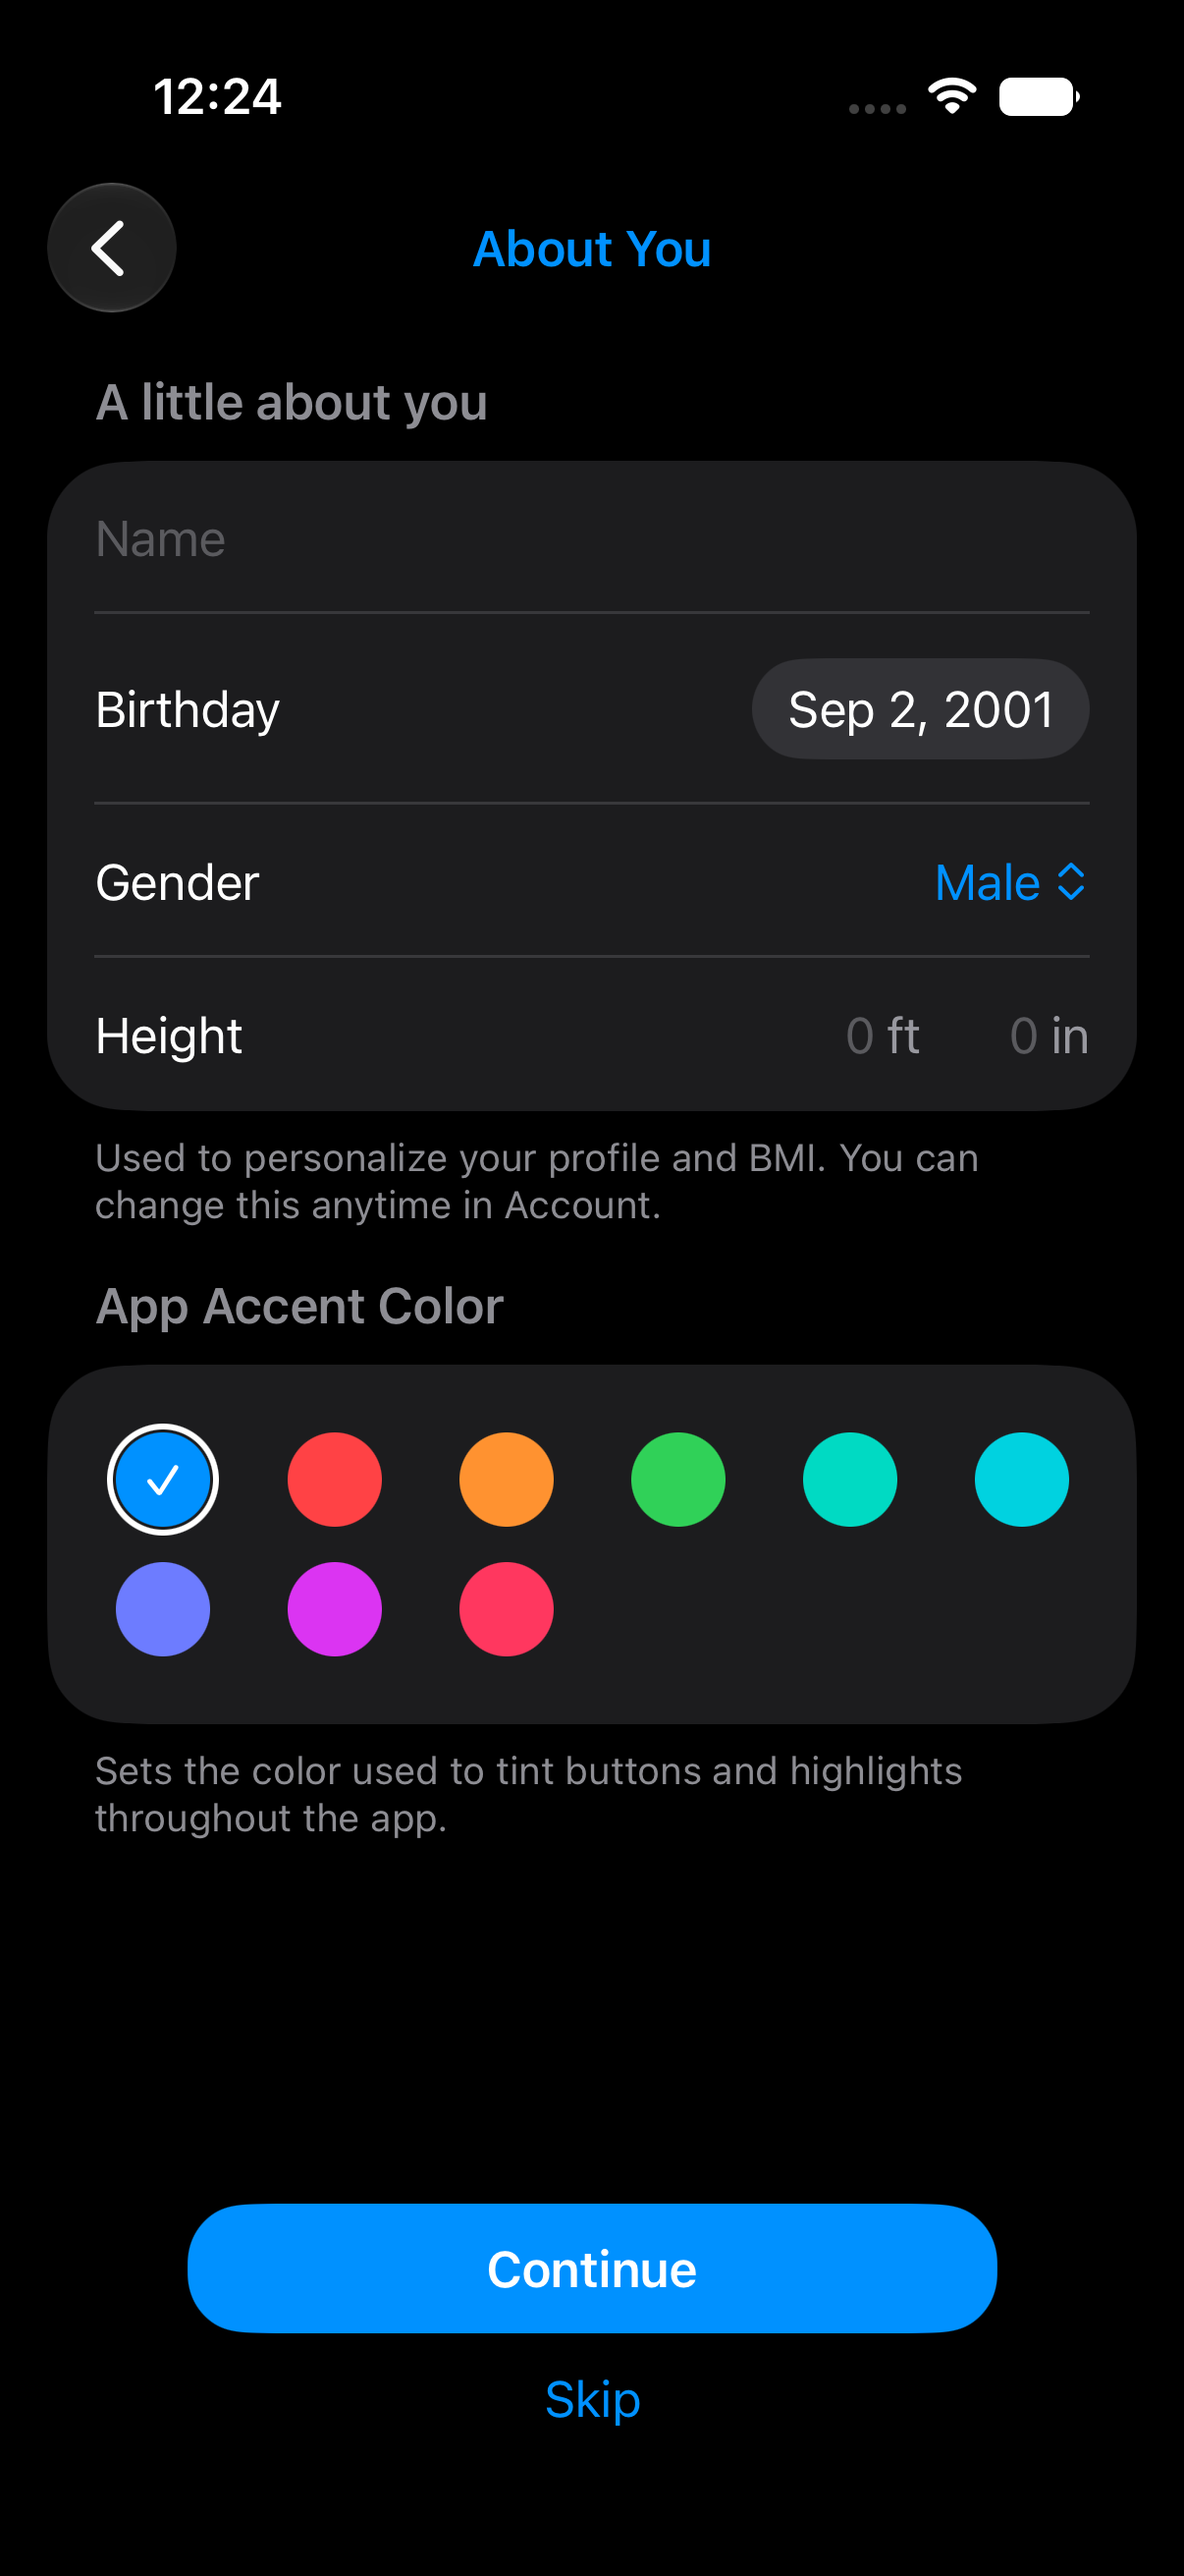
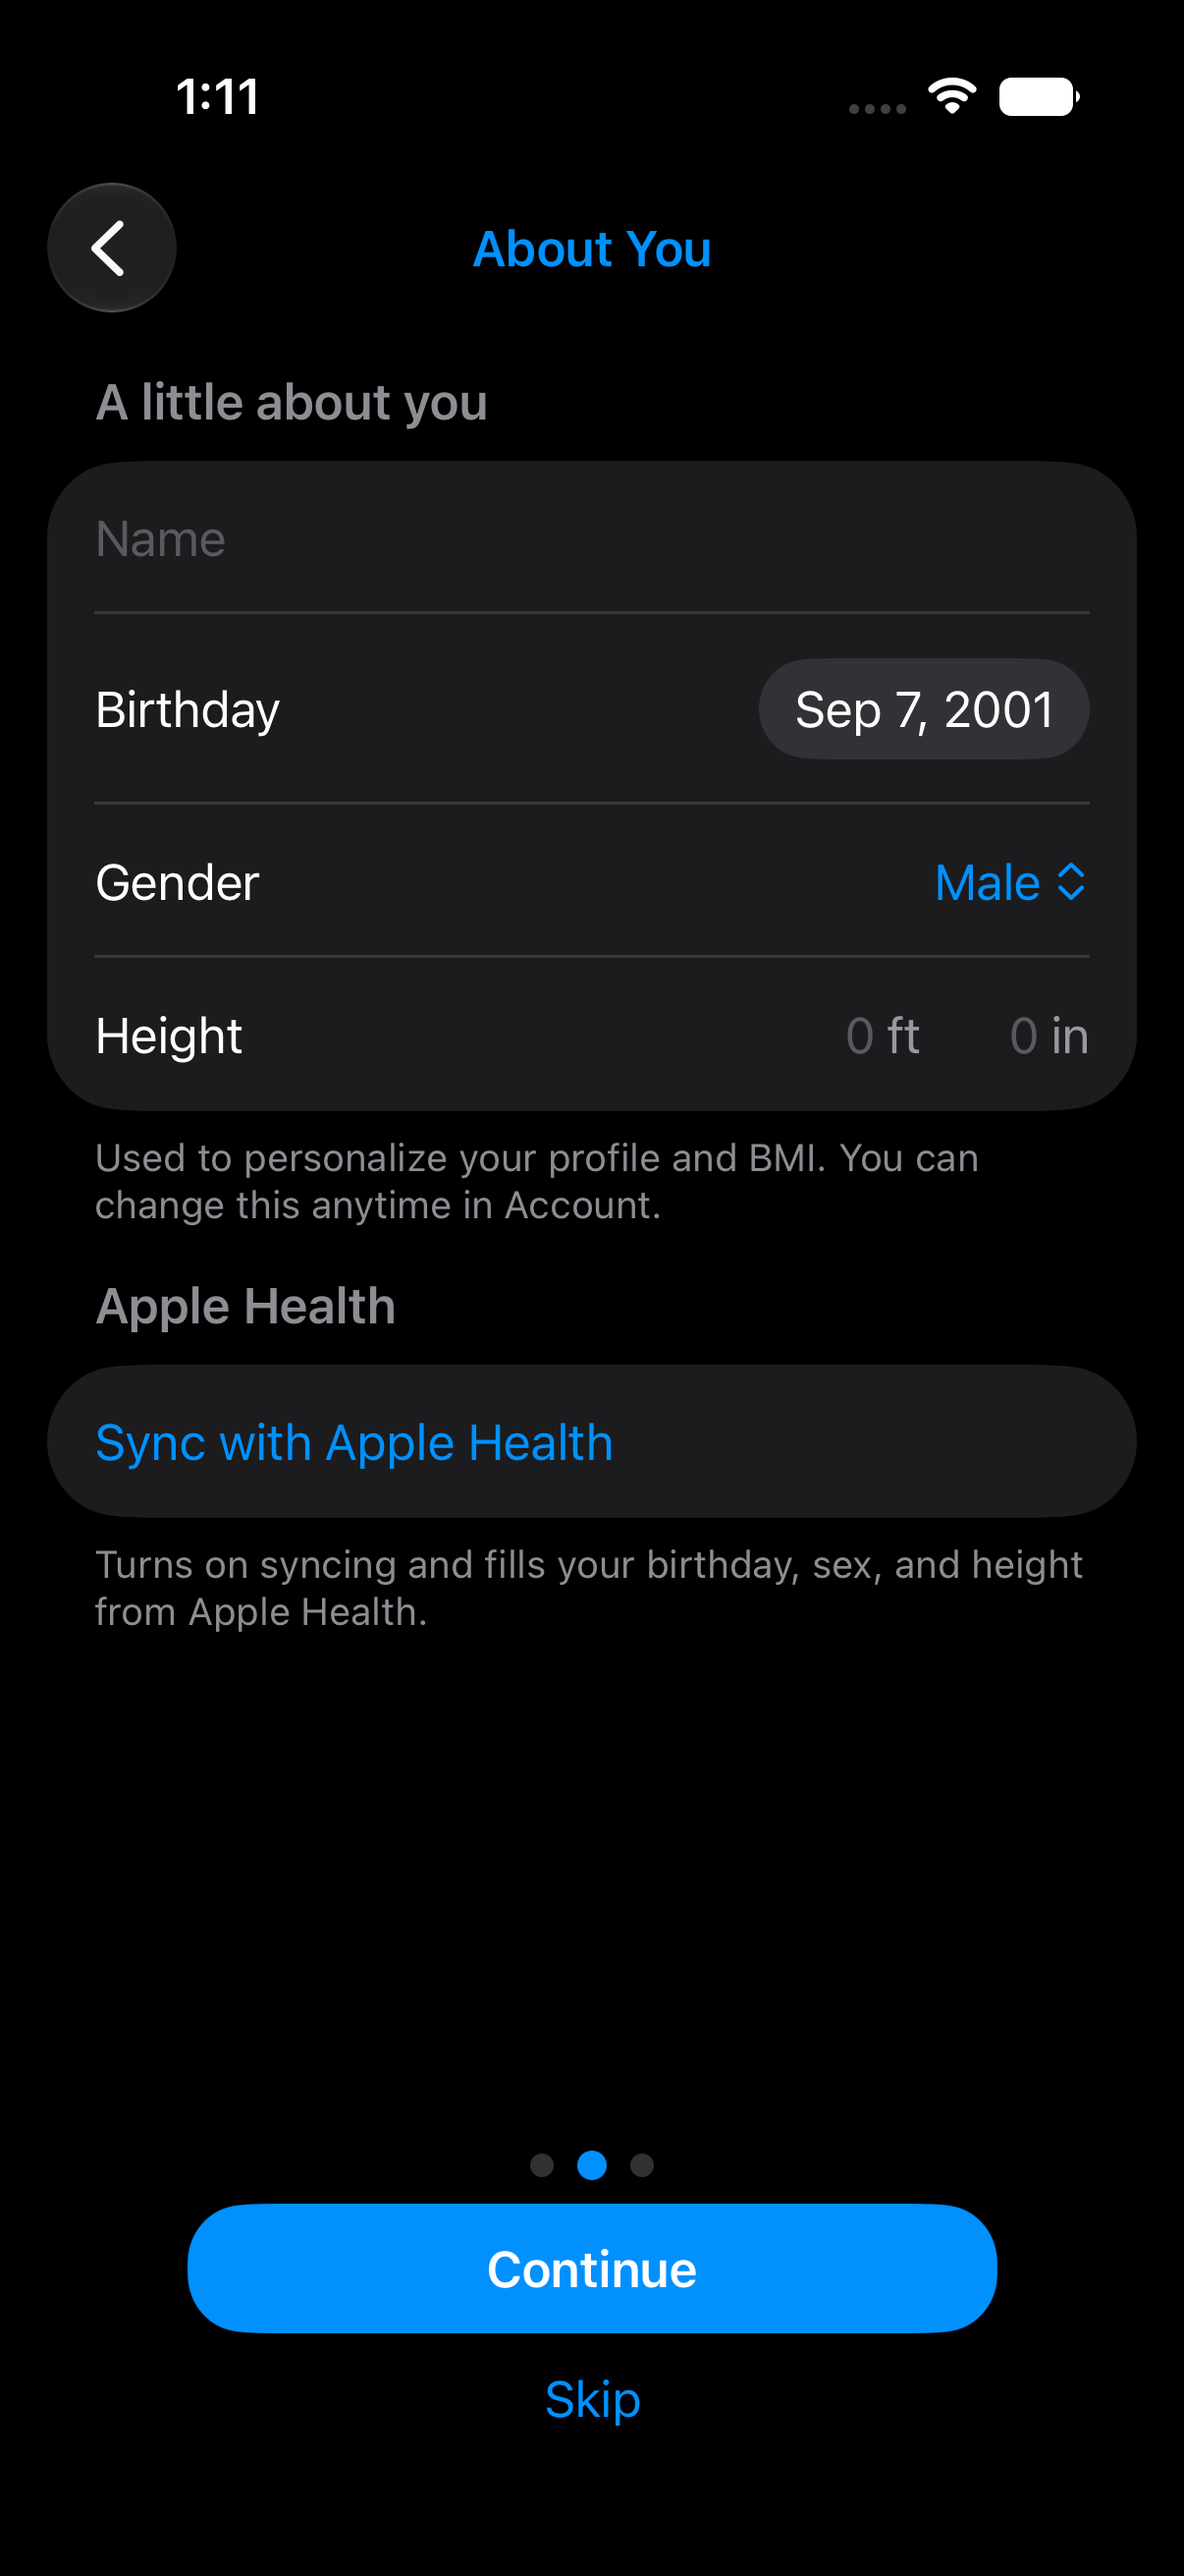
Update README + screenshots for Health, Settings categories, goals
- Document Apple Health integration, categorized Settings, storage/reset,
  goal view→edit, and onboarding Health import
- Add HealthKitService to the structure; note HealthKit is opt-in
- Refresh settings/onboarding/weight screenshots and add a Health screenshot

diff --git a/README.md b/README.md
@@ -32,12 +32,18 @@ not a single line of code, not even this README.
   optional calorie-intake overlay), view BMI (which can be turned off), and edit full history.
 - **Goals** — keep multiple nutrition goals with one "active" goal driving the day's targets.
   Set them by macros or by a calorie target split across presets (Balanced, High Protein,
-  Low Carb, Low Fat) or a custom P/C/F ratio.
+  Low Carb, Low Fat) or a custom P/C/F ratio — calories and macros always stay consistent.
+  Tap a goal to view it, then Edit to make changes.
+- **Apple Health** — opt in to sync weigh-ins and logged nutrition to Health, import your
+  profile (birthday, sex, height) and past weigh-ins, and see today's step count on the
+  Weight tab.
 - **Home-screen widget** — daily macro totals at a glance via WidgetKit + an App Group.
 - **Reminders** — optional local check-in notifications.
-- **Onboarding** — a three-phase first-run intro that also captures optional profile details.
-- **Settings** — light/dark/system appearance, accent color, unit preference, a storage
-  summary, and a reset-all-data option.
+- **Onboarding** — a three-phase first-run intro that captures optional profile details (or
+  imports them from Apple Health) and lets you choose an accent color.
+- **Settings** — organized into categories (Profile, Appearance, Health, Saved Meals,
+  Reminders, Data, About): appearance/accent/units, BMI + Apple Health sync, reminders, a
+  storage summary with reset-all-data, and app info.
 
 ### Screenshots
 
@@ -52,9 +58,9 @@ not a single line of code, not even this README.
 | --- | --- | --- |
 | ![History calendar](Screenshots/history-calendar.png) | ![Food index](Screenshots/food-index.png) | ![Goal editor](Screenshots/goal-editor.png) |
 
-| Onboarding | Settings |
-| --- | --- |
-| ![Onboarding](Screenshots/onboarding.png) | ![Settings](Screenshots/settings.png) |
+| Onboarding | Settings | Health |
+| --- | --- | --- |
+| ![Onboarding](Screenshots/onboarding.png) | ![Settings](Screenshots/settings.png) | ![Health settings](Screenshots/health.png) |
 
 ## Requirements
 
@@ -68,7 +74,7 @@ DietBuddy/
 ├── App/            # App entry point, root tab view, onboarding
 ├── Models/         # SwiftData models (Food, Meal, MealItem, WeightEntry, Goal,
 │                   #   SavedMeal, SavedMealItem, UserProfile, PortionUnit, Gender)
-├── Services/       # Open Food Facts lookup, reminder scheduling
+├── Services/       # Open Food Facts lookup, reminder scheduling, Apple Health (HealthKit)
 ├── Support/        # Theme, BMI + macro math, DEBUG sample data, shared widget store
 ├── Views/
 │   ├── Weight/     # Trend chart, history, BMI, weigh-in editor
@@ -79,7 +85,7 @@ DietBuddy/
 │   │   └── Detail/   # Item and saved-meal-bundle detail
 │   ├── Goals/      # Goal list, editor, and read-only detail
 │   ├── SavedMeals/ # Saved-meal management and picking
-│   ├── Settings/   # Settings and profile/body editor
+│   ├── Settings/   # Settings categories (appearance, health, reminders, data, about) + profile
 │   └── Components/  # Reusable views (buttons, fields, pickers, effects, empty state)
 └── DietBuddyWidget/ # WidgetKit extension (daily macros)
 ```
@@ -90,6 +96,8 @@ DietBuddy/
   later never changes past entries.
 - Nutrition is stored per 100 g internally; drinks display/enter per fl oz (≈ 1 g/mL).
 - Sample data is seeded only in **DEBUG** builds and never ships in release.
+- Apple Health sync is **opt-in** and requires the HealthKit capability plus the Health usage
+  strings; without them the app still builds and runs, just without Health features.
 - To run on a physical device you'll need to set your own bundle identifier and signing team.
 
 ## Development

diff --git a/Screenshots/README.md b/Screenshots/README.md
@@ -8,8 +8,9 @@ Add PNG screenshots here for the README's Screenshots section. Expected filename
 - `history-calendar.png` — Tracking history in month-calendar mode
 - `food-index.png` — Food Index (unique logged foods with averages/totals)
 - `goal-editor.png` — Goal editor (calorie split or macros)
-- `onboarding.png` — First-run onboarding
-- `settings.png` — Settings (with the storage/reset section)
+- `onboarding.png` — First-run onboarding (About You)
+- `settings.png` — Settings category menu
+- `health.png` — Health settings (Show BMI + Apple Health)
 
 Suggested: capture on an iPhone simulator at a consistent device size (e.g. iPhone 16 Pro),
 portrait, in light or dark mode consistently.
